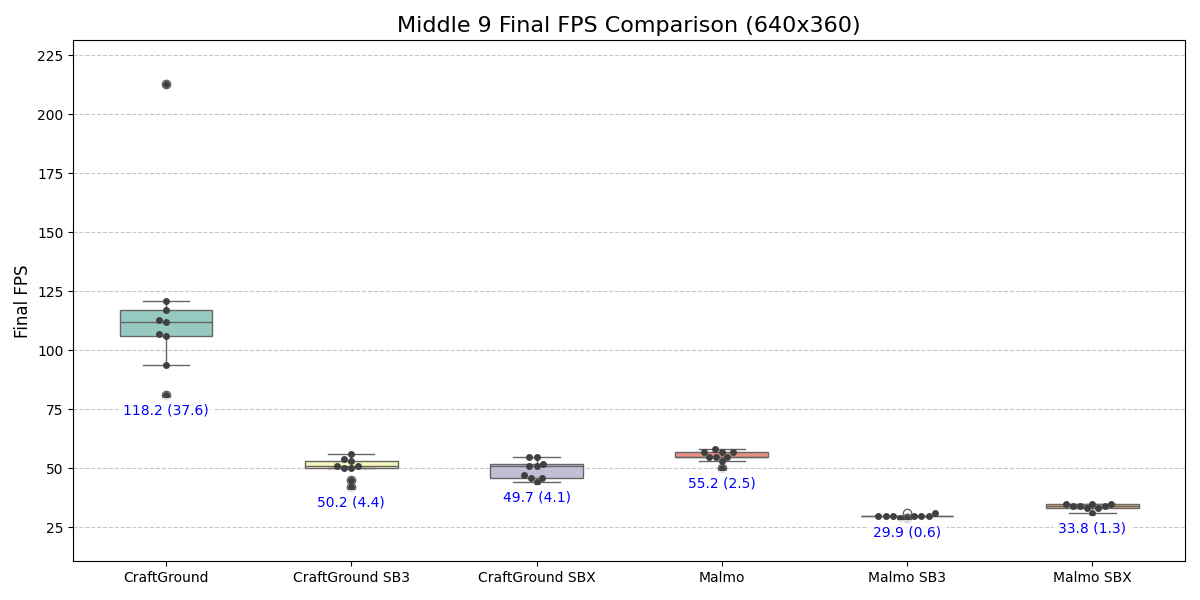
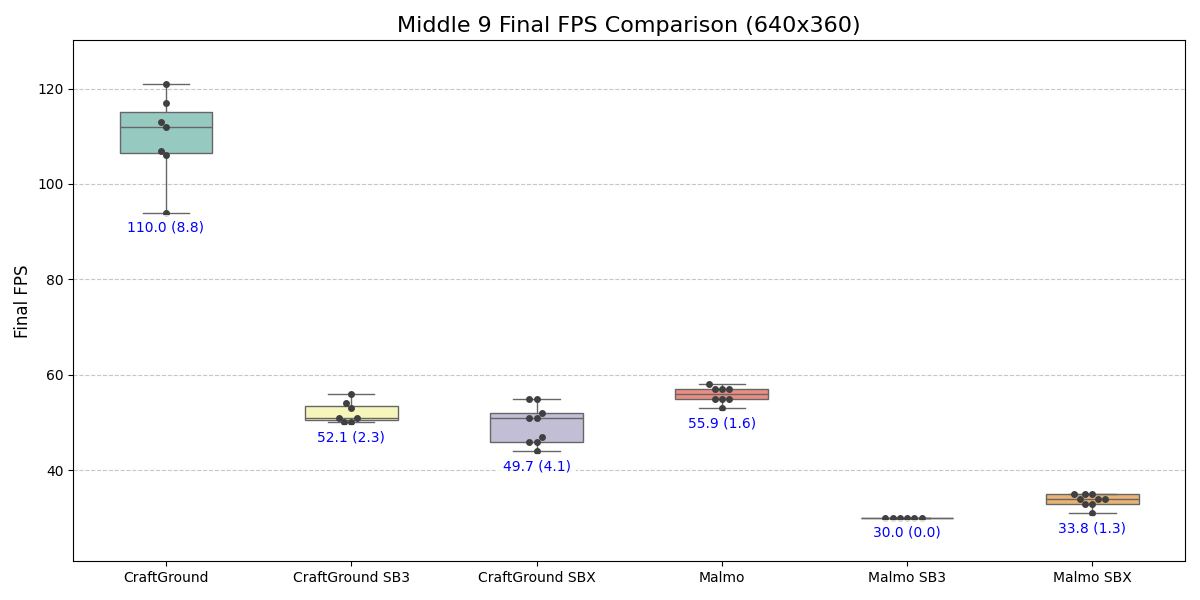
✨ Remove outliers using iql

diff --git a/post_processing/group_fps.py b/post_processing/group_fps.py
@@ -17,12 +17,32 @@ def select_topk(df, k):
     return df.nlargest(k, "time/fps")
 
 
-def group_fps_topk(csv_file: str, k: int, use_middle: bool = True) -> dict:
+def remove_outliers_iqr(df, column="time/fps"):
+    """Remove outliers using IQR method"""
+    Q1 = df[column].quantile(0.25)
+    Q3 = df[column].quantile(0.75)
+    IQR = Q3 - Q1
+    lower_bound = Q1 - 1.5 * IQR
+    upper_bound = Q3 + 1.5 * IQR
+    return df[(df[column] >= lower_bound) & (df[column] <= upper_bound)]
+
+
+def group_fps_topk(
+    csv_file: str, k: int, use_middle: bool = True, remove_iql: bool = True
+) -> dict:
     df = pd.read_csv(csv_file)
 
     # Seperate 64x64 640x360
     df_64x64 = df[df["group"].str.contains("64-64")]
     df_640x360 = df[df["group"].str.contains("640-360")]
+
+    if remove_iql:
+        df_64x64 = df_64x64.groupby("group", group_keys=False).apply(
+            remove_outliers_iqr
+        )
+        df_640x360 = df_640x360.groupby("group", group_keys=False).apply(
+            remove_outliers_iqr
+        )
 
     if use_middle:
         # Select middle topk runs for each group
@@ -156,5 +176,5 @@ def group_fps_topk(csv_file: str, k: int, use_middle: bool = True) -> dict:
 if __name__ == "__main__":
     current_dir = os.path.dirname(os.path.abspath(__file__))
     csv_file = os.path.join(current_dir, "data", "all.csv")
-    grouped_dict = group_fps_topk(csv_file, k=4)
+    grouped_dict = group_fps_topk(csv_file, k=9)
     print(grouped_dict)
